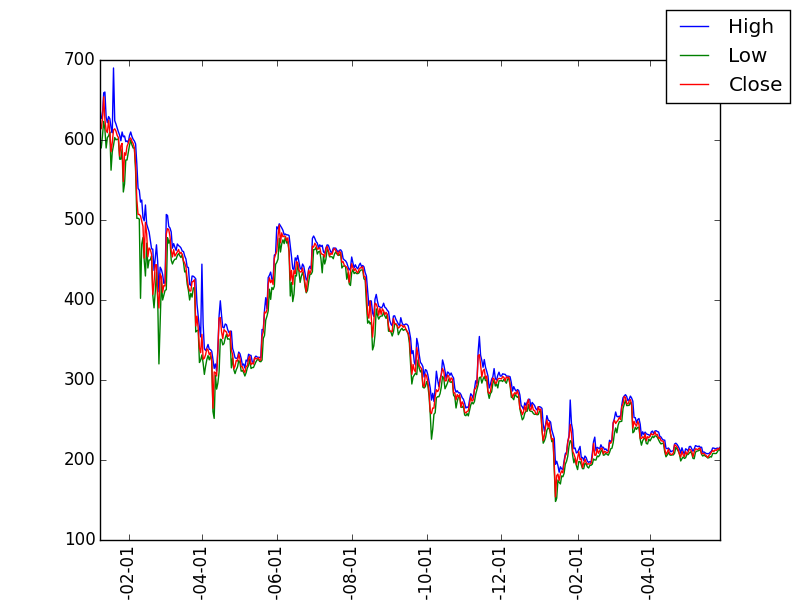
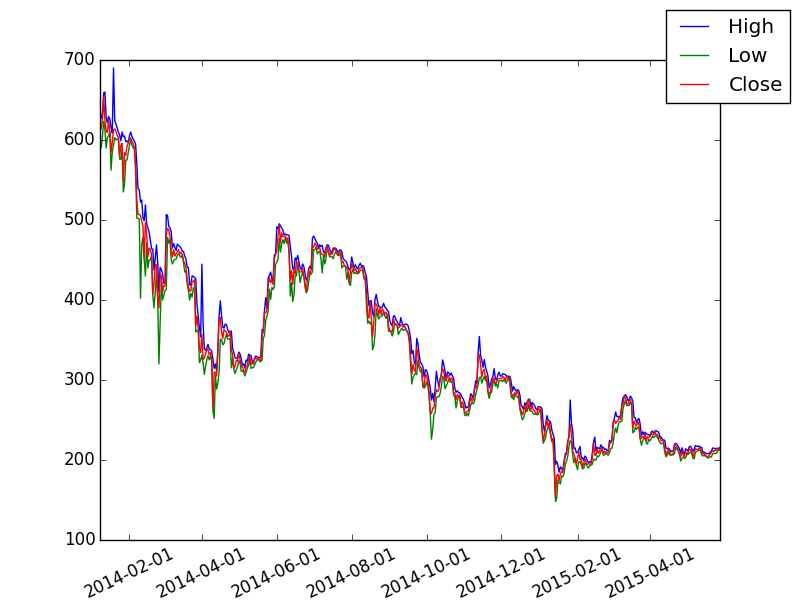
Added collector and new graph maker

Changed region(s): [[0.0938, 0.9, 0.875, 1.0]]

diff --git a/collector.py b/collector.py
@@ -1,0 +1,37 @@
+__author__ = 'petermeckiffe'
+import urllib.request
+import json
+import pickle
+import os
+try:
+    os.remove('stats_pickle')
+except:
+    pass
+
+from twisted.internet import task
+from twisted.internet import reactor
+
+timeout = 60.0 # Sixty seconds
+
+def doWork():
+    request = "https://api.coindesk.com/v1/bpi/currentprice/GBP.json"
+    with urllib.request.urlopen(request) as response:
+        str_response = response.read().decode('utf-8')
+        obj = json.loads(str_response)
+        important_info = [obj['time']['updatedISO'], obj['bpi']['GBP']['rate_float']]
+        mydata = None
+        try:
+            mydata = pickle.load(open('stats_pickle', 'rb'))
+        except:
+            pass
+
+        if mydata is None:
+            mydata = list()
+        mydata.append(important_info)
+        with open('stats_pickle', 'wb') as f:
+            pickle.dump(mydata,f)
+
+l = task.LoopingCall(doWork)
+l.start(timeout) # call every sixty seconds
+
+reactor.run()

diff --git a/visualize_pickled_data.py b/visualize_pickled_data.py
@@ -1,0 +1,23 @@
+__author__ = 'petermeckiffe'
+import matplotlib.pyplot as plt
+import matplotlib.dates as md
+import matplotlib.ticker
+import numpy as np
+import pickle
+import dateutil.parser
+mydata = None
+with open('stats_pickle', 'rb') as f:
+    mydata = pickle.load(open('stats_pickle', 'rb'))
+    print(mydata)
+    np_data = np.array(mydata)
+    dates = md.date2num(list(map(lambda x: dateutil.parser.parse(x), np_data[:,0].tolist())))
+    plt.xticks( rotation=25 )
+    ax=plt.gca()
+    xfmt = md.DateFormatter('%H-%M-%S')
+    ax.xaxis.set_major_formatter(xfmt)
+    y_formatter = matplotlib.ticker.ScalarFormatter(useOffset=False)
+    ax.yaxis.set_major_formatter(y_formatter)
+    plt.plot(dates ,np_data[:,1].astype(np.float32))
+
+    plt.savefig('plotc.png')
+    #plt.show()

diff --git a/bitpy.py b/bitpy.py
@@ -1,7 +1,4 @@
 __author__ = 'petermeckiffe'
-#%matplotlib inline
-import pandas
-import numpy as np
 import Quandl
 import matplotlib.pyplot as plt
 import matplotlib.dates as md
